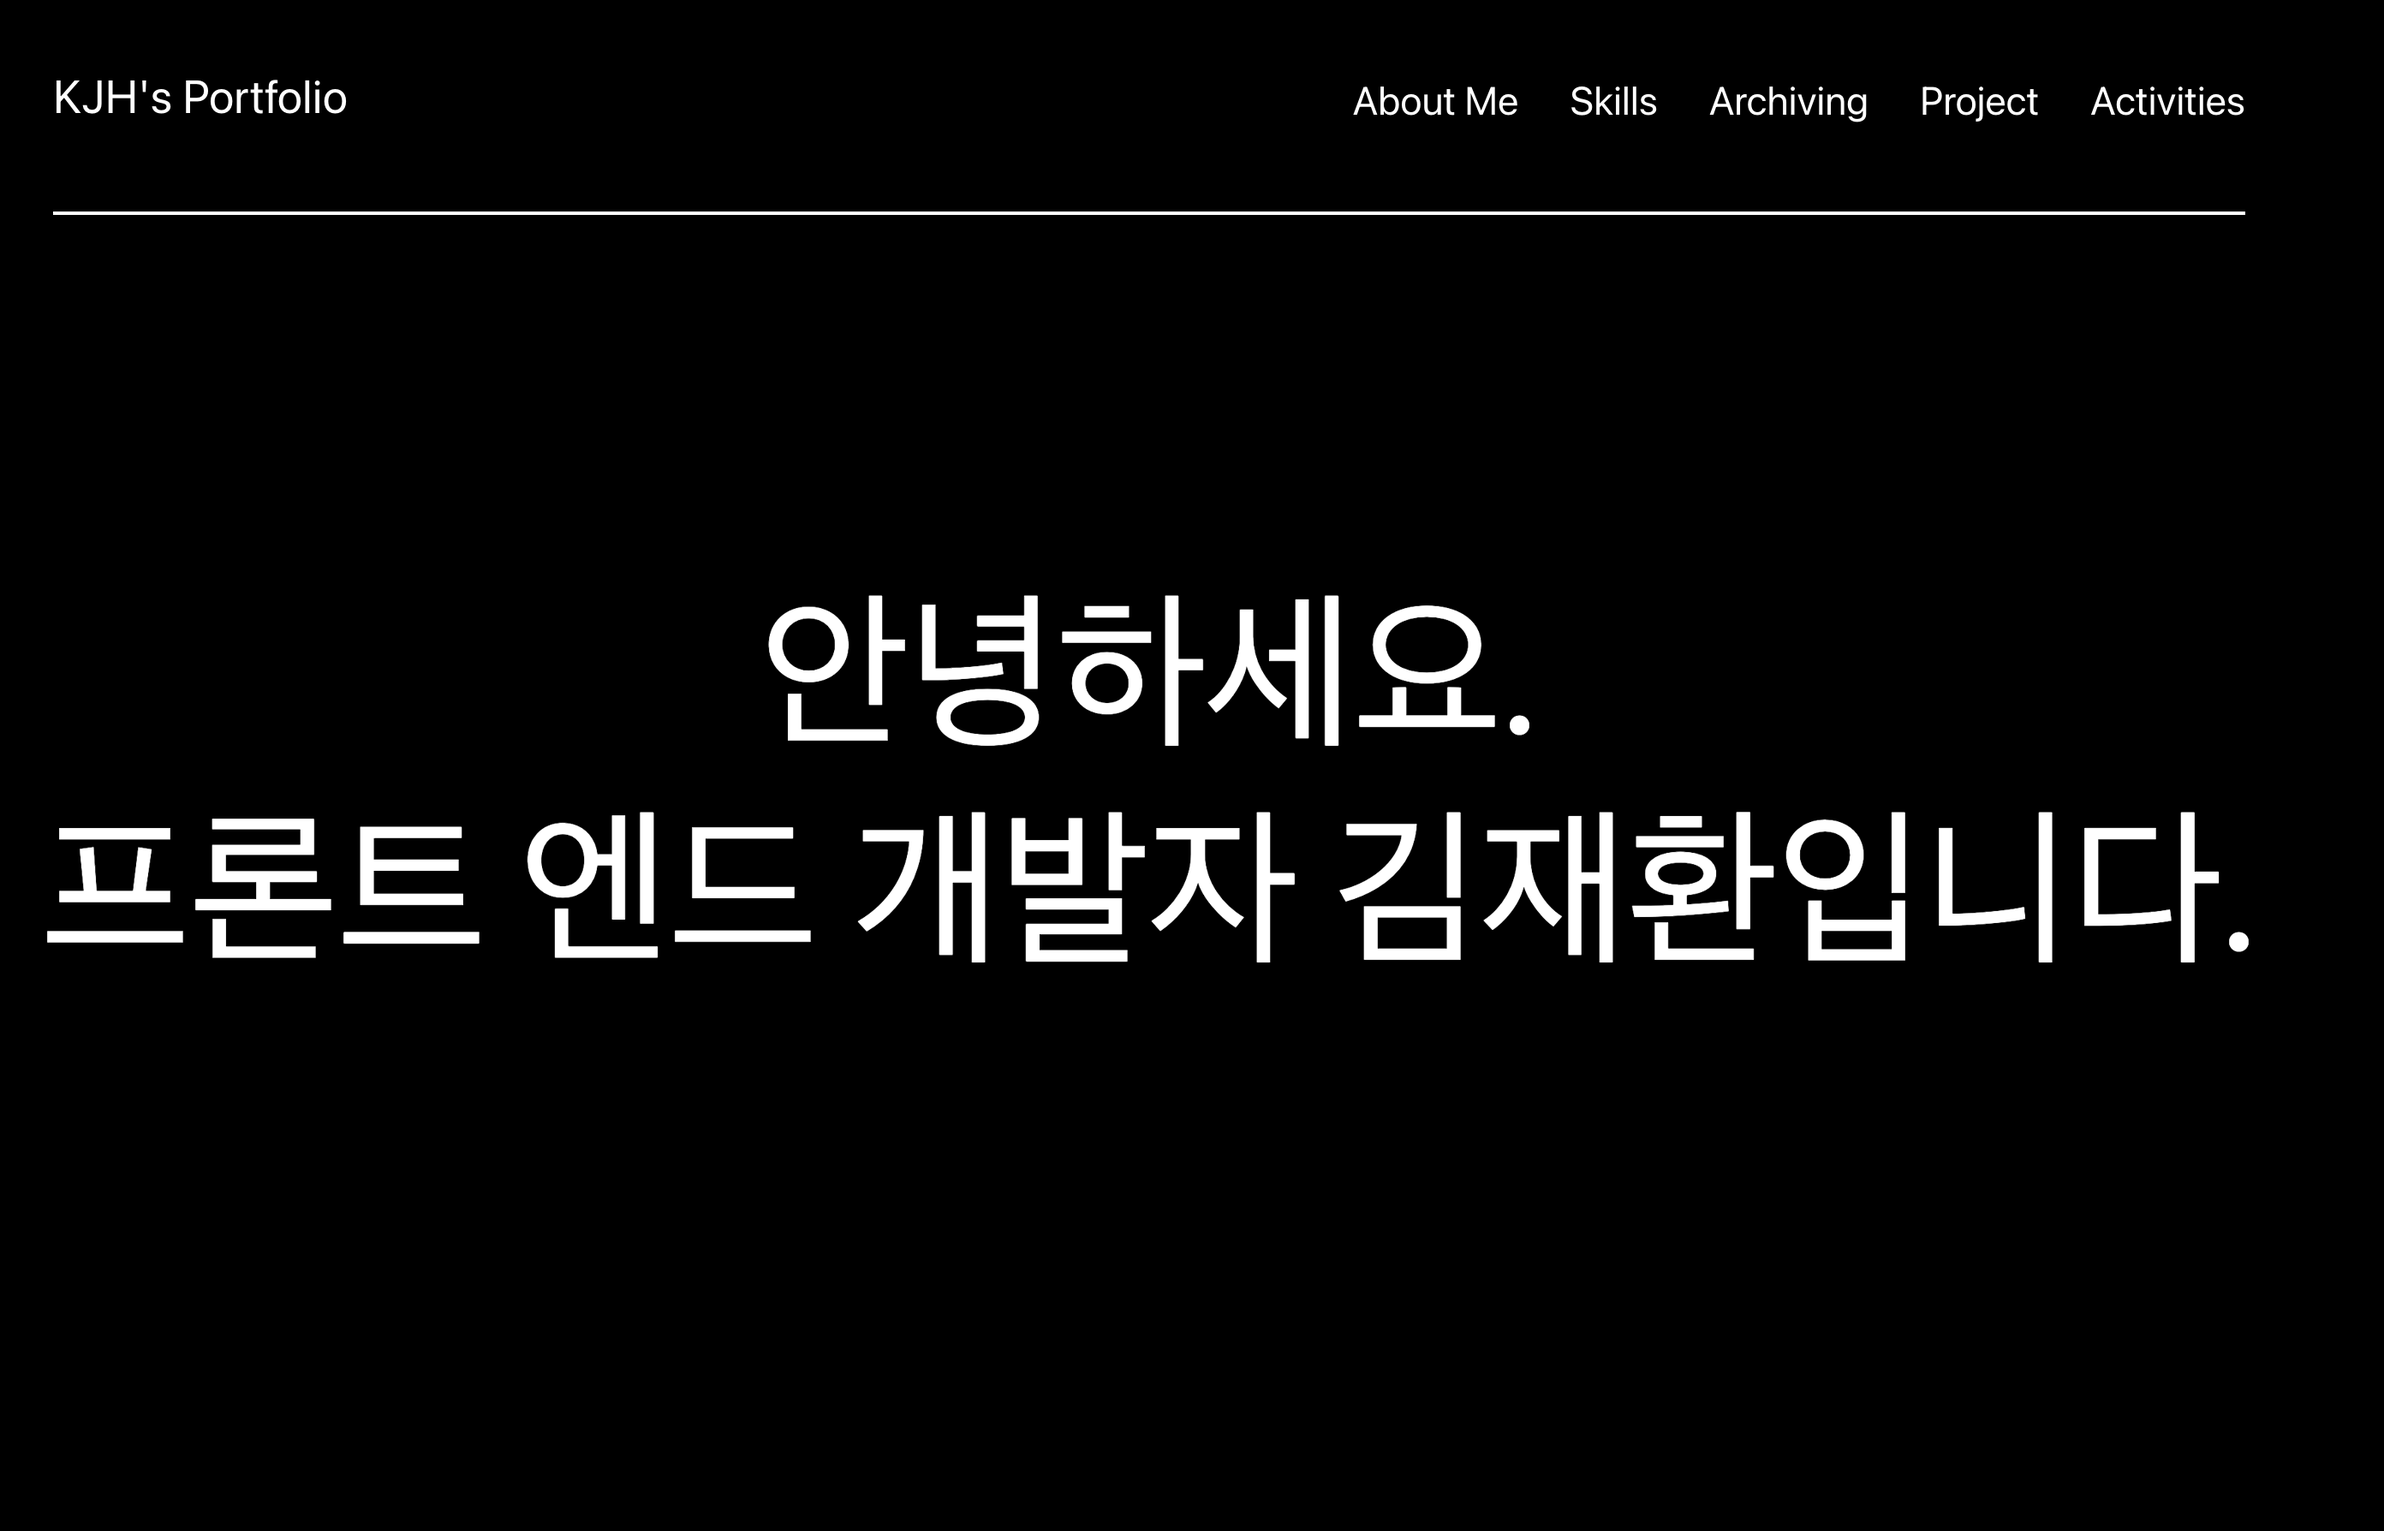
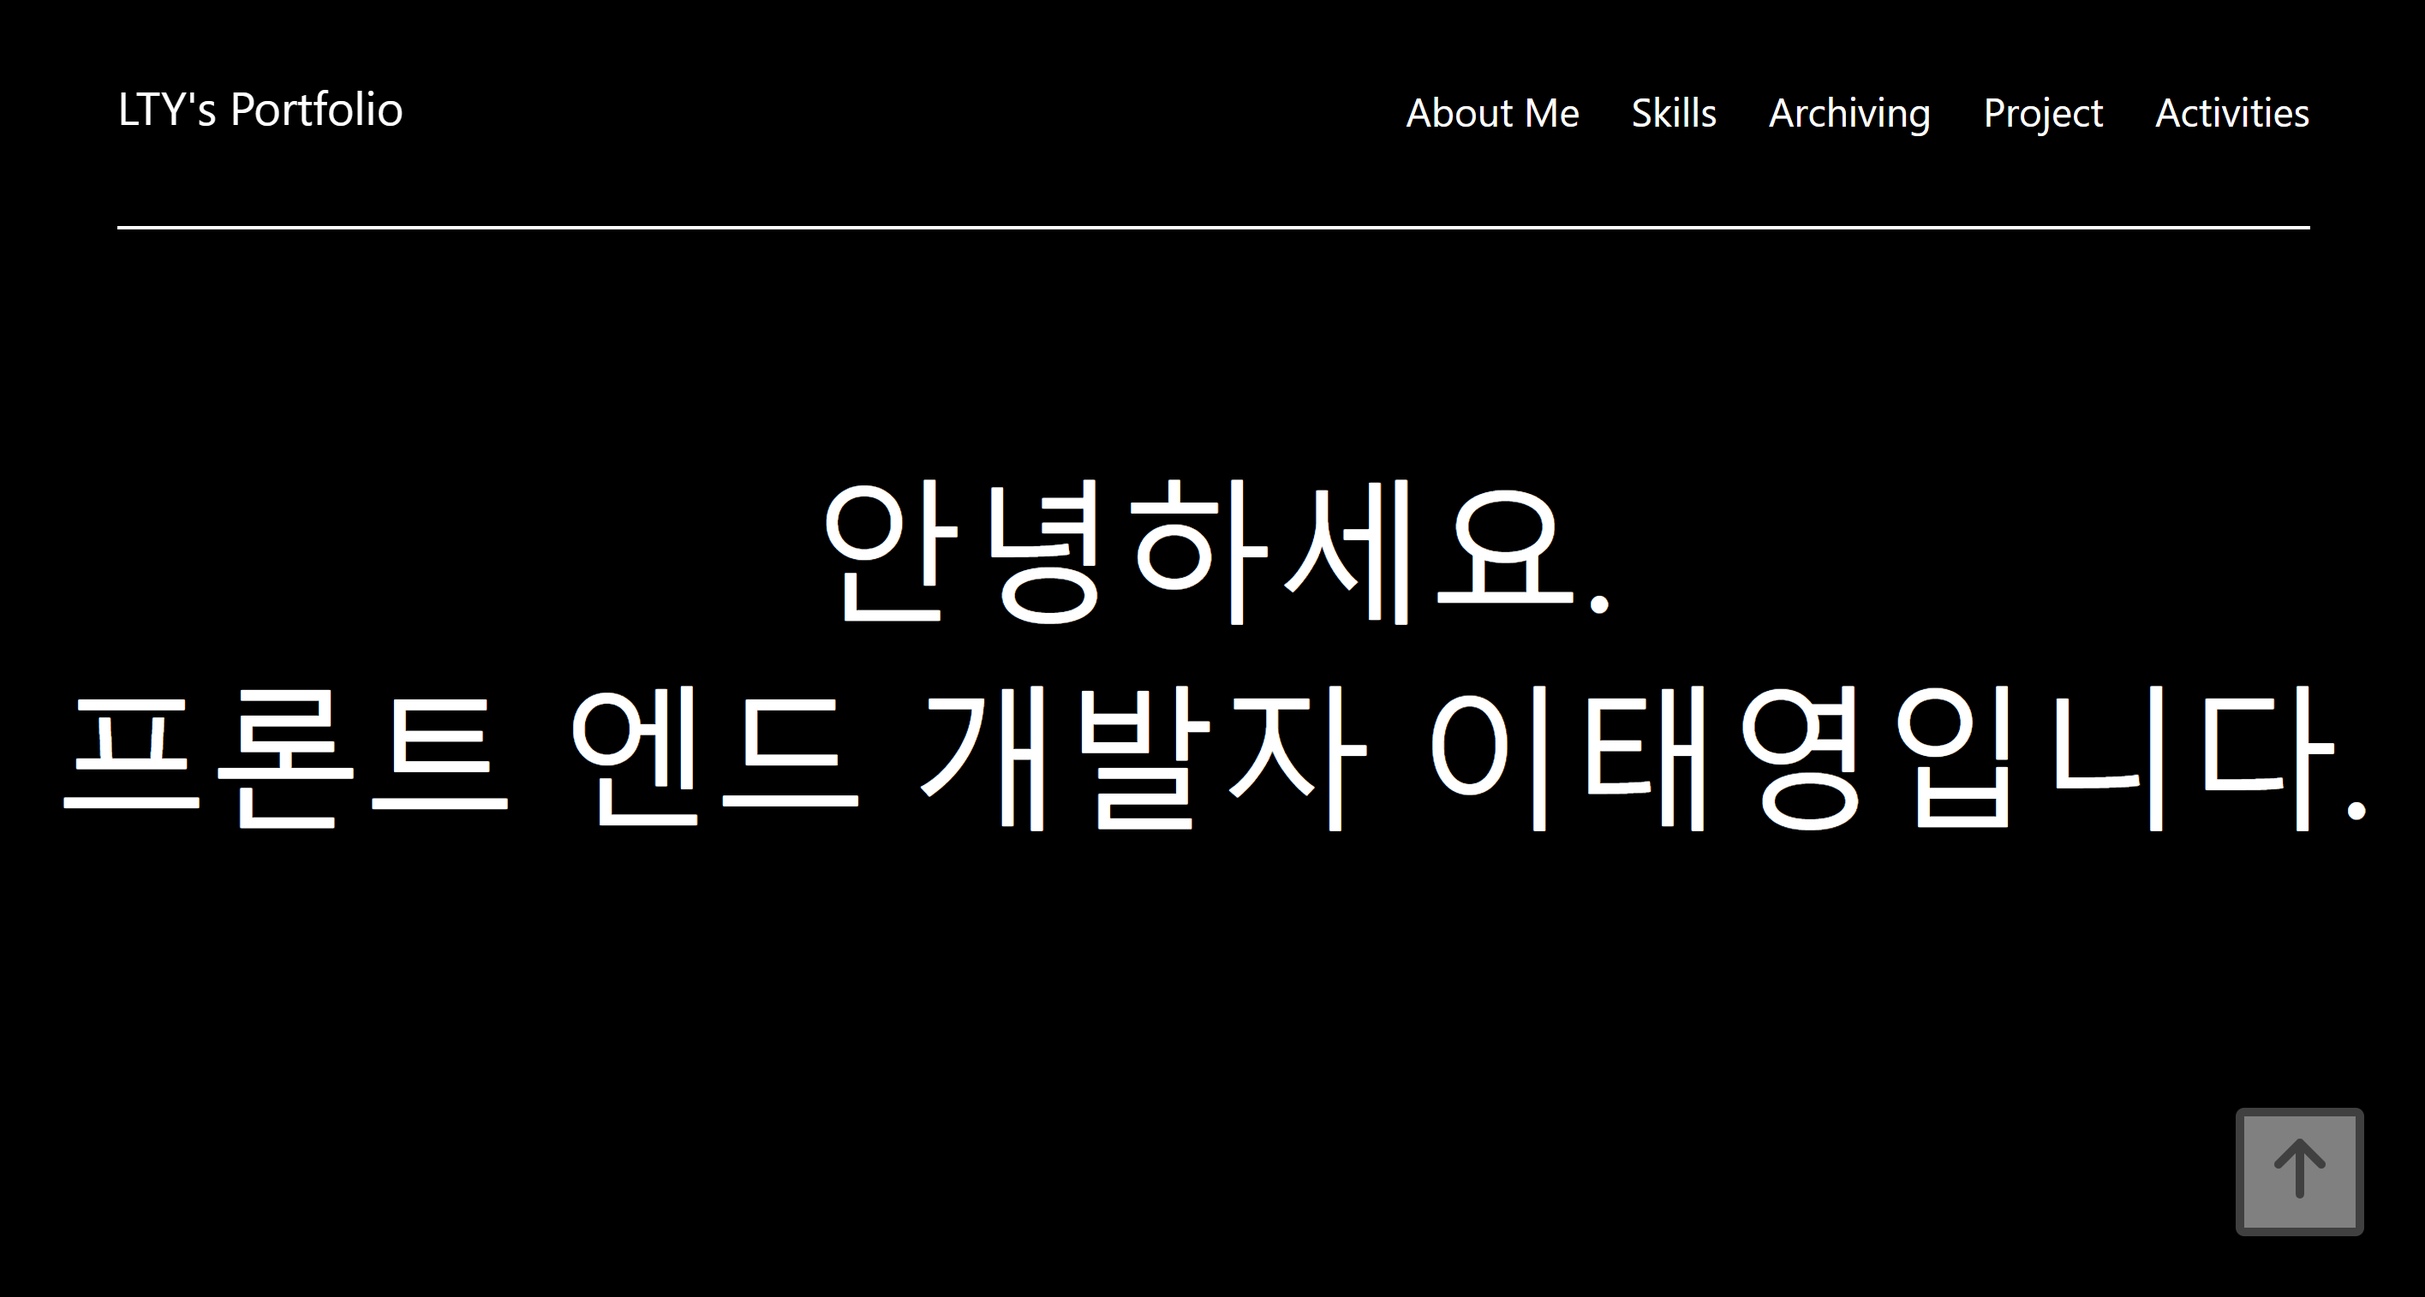
asdf

diff --git a/src/main/js/project.js b/src/main/js/project.js
@@ -55,6 +55,22 @@ const Project = forwardRef((props, ref) => {
             <div className="project-content">
                 <div className="project-card">
                     <div className="project-card-img">
+                        <img src={`${process.env.PUBLIC_URL}/img/project/project2.png`} alt='project1' />
+                    </div>
+                    <div className="project-card-desc">
+                       코인 모의 투자 사이트 프로젝트<br />
+                        <label>2024.04.11 ~ 2024.04.26</label>
+                        <p>업비트 사이트를 벤치마킹하여 진행하였습니다.(node.js)</p>
+                        <p>업비트 웹 사이트 : </p>
+                        <a className='address' href='https://upbit.com/home' >https://upbit.com/</a>
+                        <p>깃허브 소스 코드 : </p>
+                        <a className='address' href='https://github.com/youngho3358/coin_investment' >https://github.com/youngho3358/coin_investment</a>
+                        {/* <p>ppt : </p>
+                        <a className='address' href='https://docs.google.com/presentation/d/1FhtH7zdxHCUmf0rAK6oeOYmYHFsV6ROCL8g23di3FOE/edit#slide=id.g2ef1808f267_1_174' >ppt url</a> */}
+                    </div>
+                </div>
+                <div className="project-card">
+                    <div className="project-card-img">
                         <img src={`${process.env.PUBLIC_URL}/img/project/project1.png`} alt='project1' />
                     </div>
                     <div className="project-card-desc">
@@ -66,24 +82,11 @@ const Project = forwardRef((props, ref) => {
                         <br/>
                         <p>깃허브 소스 코드 : </p>
                         <a className='address' href='https://github.com/dlxodud123/fream_front' >https://github.com/dlxodud123/fream_front</a>
-                        <p>ppt : </p>
-                        <a className='address' href='https://docs.google.com/presentation/d/1FhtH7zdxHCUmf0rAK6oeOYmYHFsV6ROCL8g23di3FOE/edit#slide=id.g2ef1808f267_1_174' >ppt url</a>
+                        {/* <p>ppt : </p>
+                        <a className='address' href='https://docs.google.com/presentation/d/1FhtH7zdxHCUmf0rAK6oeOYmYHFsV6ROCL8g23di3FOE/edit#slide=id.g2ef1808f267_1_174' >ppt url</a> */}
                     </div>
                 </div>
-                <div className="project-card">
-                    <div className="project-card-img">
-                        <img src={`${process.env.PUBLIC_URL}/img/project/project2.png`} alt='project1' />
-                    </div>
-                    <div className="project-card-desc">
-                       협업 툴 프로젝트<br />
-                        <label>2024.04.11 ~ 2024.04.25</label>
-                        <p>협업 툴 프로젝트 진행하였습니다.(node.js)</p>
-                        <p>깃허브 소스 코드 : </p>
-                        <a className='address' href='https://github.com/KimJaeHwan98/ForWebPrjBs' >https://github.com/KimJaeHwan98/ForWebPrjBs</a>
-                        <p>ppt : </p>
-                        <a className='address' href='https://docs.google.com/presentation/d/1FhtH7zdxHCUmf0rAK6oeOYmYHFsV6ROCL8g23di3FOE/edit#slide=id.g2ef1808f267_1_174' >ppt url</a>
-                    </div>
-                </div>
+                
                 <div className="project-card">
                     <div className="project-card-img">
                         <img src={`${process.env.PUBLIC_URL}/img/project/project3.png`} alt='project1' />
@@ -91,9 +94,9 @@ const Project = forwardRef((props, ref) => {
                     <div className="project-card-desc">
                         포트폴리오 프로젝트<br />
                         <label>2024.07.25 ~ 2024.07.30</label>
-                        <p>입사지원 포트폴리오 제작 프로젝트 진행하였습니다.(React)</p>
+                        <p>웹 포트폴리오 제작 프로젝트 진행하였습니다.(React)</p>
                         <p>깃허브 소스 코드 : </p>
-                        <a className='address' href='https://github.com/KimJaeHwan98/portfolio' >https://github.com/KimJaeHwan98/portfolio</a>
+                        <a className='address' href='https://github.com/dlxodud123/portfolio' >https://github.com/dlxodud123/portfolio</a>
                     </div>
                 </div>
             </div>

diff --git a/src/main/js/skill.js b/src/main/js/skill.js
@@ -163,8 +163,7 @@ const skills = [
     { skill: 'HTML5', level: 80 },
     { skill: 'CSS3', level: 80 },
     { skill: 'JavaScript', level: 60 },
-    { skill: 'TypeScript', level: 30 },
-    // { skill: 'jQuery', level: 30 },
+    { skill: 'TypeScript', level: 20 },
     { skill: 'React', level: 70 },
     // { skill: 'React Query', level: 30 },
     { skill: 'Bootstrap', level: 60 },
@@ -216,7 +215,6 @@ const skills = [
                 <div className="skill_img"><img src={`${process.env.PUBLIC_URL}/img/frontend/skillimg_css.png`} alt='css' /></div>
                 <div className="skill_img"><img src={`${process.env.PUBLIC_URL}/img/frontend/skillimg_javascript.png`} alt='javascript' /></div>
                 <div className="skill_img"><img src={`${process.env.PUBLIC_URL}/img/frontend/skillimg_typescript.png`} alt='typescript' /></div>
-                {/* <div className="skill_img"><img src={`${process.env.PUBLIC_URL}/img/frontend/skillimg_jquery.png`} alt='jquery' /></div> */}
                 <div className="skill_img"><img src={`${process.env.PUBLIC_URL}/img/frontend/skillimg_react.png`} alt='react' /></div>
                 {/* <div className="skill_img"><img src={`${process.env.PUBLIC_URL}/img/frontend/skillimg_reactquery.png`} alt='react query' /></div> */}
                 <div className="skill_img"><img src={`${process.env.PUBLIC_URL}/img/frontend/skillimg_bootstrap.png`} alt='bootstrap' /></div>

diff --git a/src/main/js/top.js b/src/main/js/top.js
@@ -5,9 +5,9 @@ const Top = () => {
         <>
             <div className='top_container'>
                 
-                <p className='top-text' style={{fontSize:'100px',margin:'0'}}>
+                <p className='top-text' style={{fontSize:'90px',margin:'0'}}>
                   안녕하세요.<br></br>
-                  이태영
+                  프론트 엔드 개발자 이태영입니다.
                 </p>
                 
             </div>

diff --git a/src/main/css/project.css b/src/main/css/project.css
@@ -53,8 +53,8 @@
 .project-card-desc {
     font-size: 25px;
     font-weight: bold;
-    margin-left: 80px;
-    margin-top: 80px;
+    margin-left: 65px;
+    margin-top: 70px;
     text-align: left;
 }
 
